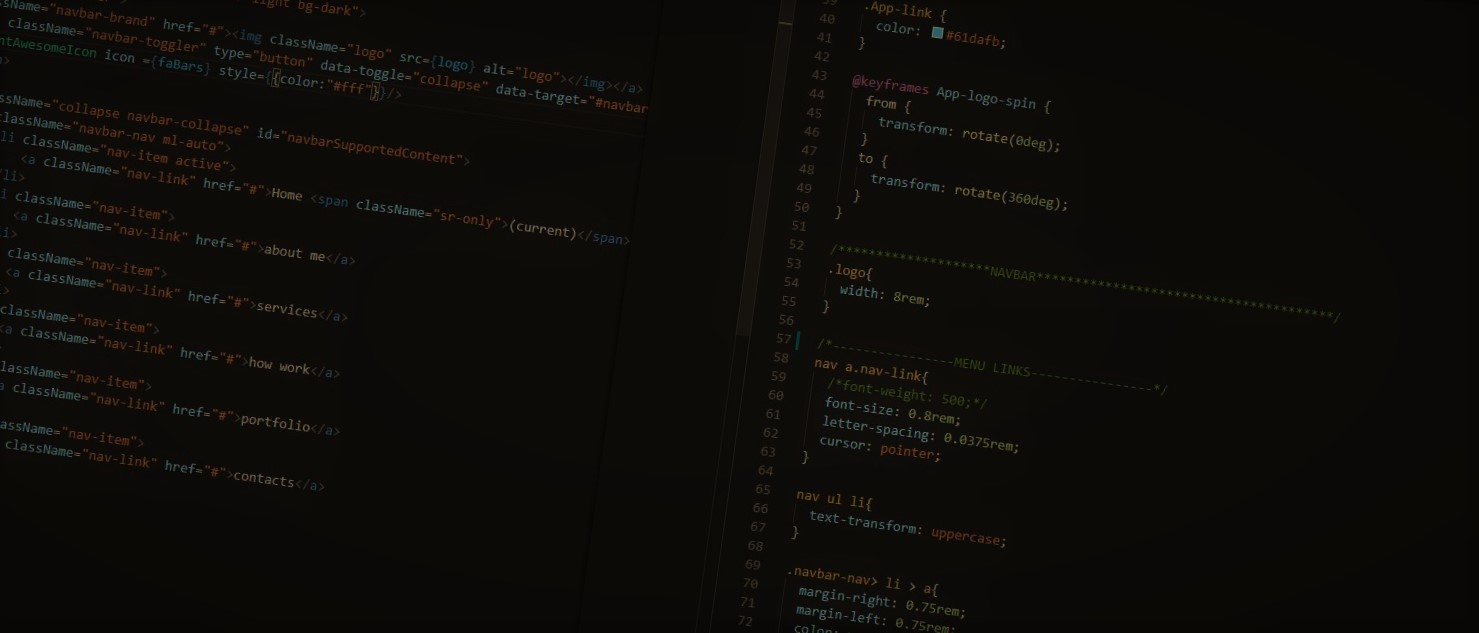
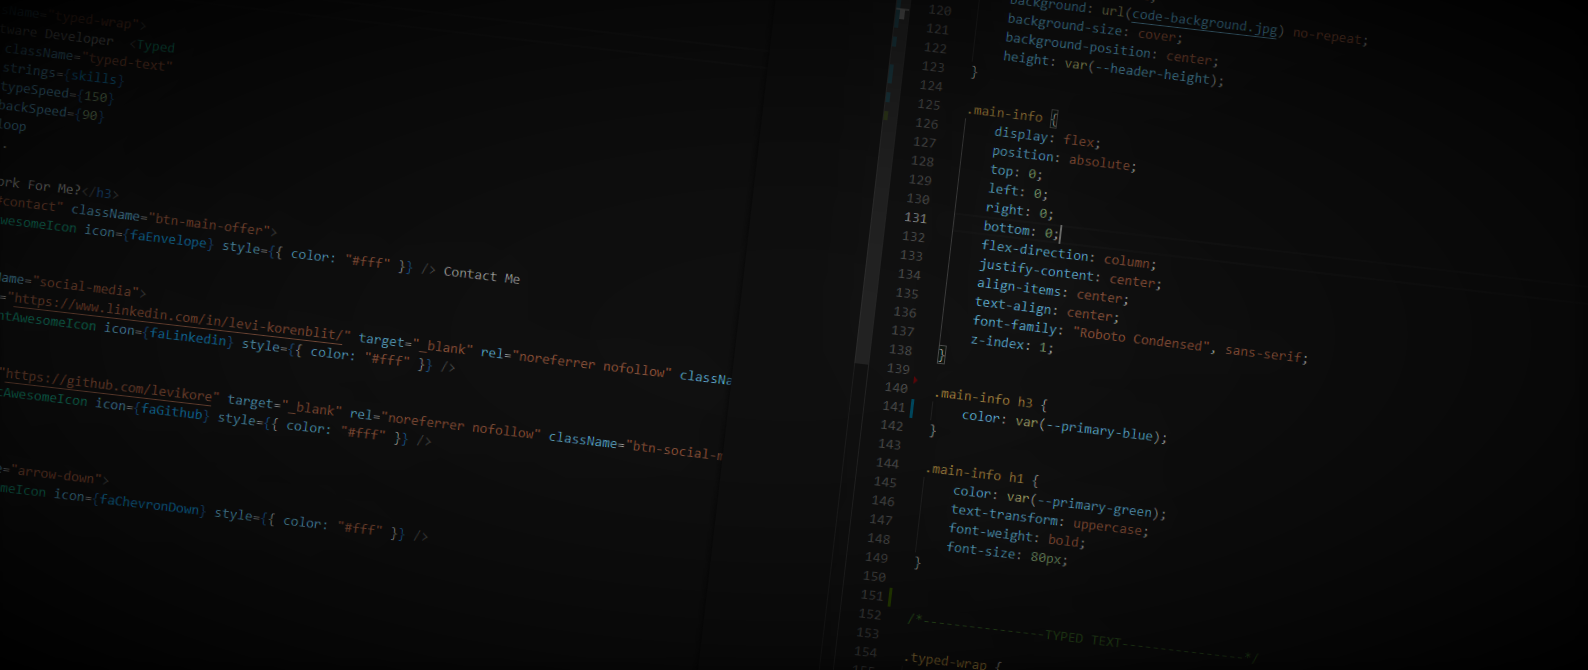
changed header style and background

diff --git a/src/components/Header.js b/src/components/Header.js
@@ -7,25 +7,25 @@ import { faEnvelope } from "@fortawesome/free-solid-svg-icons";
 import { faLinkedin } from "@fortawesome/free-brands-svg-icons";
 import { faGithub } from "@fortawesome/free-brands-svg-icons";
 
-const skills = ["Junior Software Developer", "Junior Full-Stack Developer", "Junior Web Developer"];
+const skills = ["React", "JavaScript", "NodeJS", "HTML5", "CSS3", "C#", "C++", "Python", "Git"];
 
 const Header = () => {
     return (
         <div className="header-wraper" id="section-header">
             <div className="main-info">
-                <div className="hello-text-wraper">
-                    <h3>Hi, I'm</h3>
-                    <h1>Levi Korenblit</h1>
-                </div>
+
+                <h1>Levi Korenblit</h1>
+
                 <p className="typed-wrap">
-                    Looking for a <Typed
+                    Software Developer  <Typed
                         className="typed-text"
                         strings={skills}
-                        typeSpeed={100}
-                        backSpeed={60}
+                        typeSpeed={150}
+                        backSpeed={90}
                         loop
-                    /> position
+                    /> ...
                 </p>
+                <h3>Got Work For Me?</h3>
                 <a href="#contact" className="btn-main-offer">
                     <FontAwesomeIcon icon={faEnvelope} style={{ color: "#fff" }} /> Contact Me
                 </a>
@@ -40,9 +40,9 @@ const Header = () => {
                     </a>
                 </div>
 
-                <div className="arrow-down">
+                <a href="#section-about-me" className="arrow-down">
                     <FontAwesomeIcon icon={faChevronDown} style={{ color: "#fff" }} />
-                </div>
+                </a>
             </div>
         </div>
     )

diff --git a/src/App.css b/src/App.css
@@ -4,10 +4,11 @@
     --primary-green: #56fd3c;
     --secondary-green: #06d6a0;
     --secondary-hover-green:#0ac593;
+    --background-green: #5db6ab;
     --primary-dark: rgba(255, 255, 255, 0);
     --primary-red: #ef4035;
     --primary-hover-red: #f33501;
-    --primary-blue:#3da3d5;
+    --primary-blue:#0093E9;
     --faded-blue: rgb(167, 203, 221);
     --secondary-blue:rgb(201, 251, 255);
     --header-height: 93vh;
@@ -136,11 +137,6 @@ nav ul li {
     z-index: 1;
 }
 
-.hello-text-wraper{
-    display: flex;
-    flex-direction: column;
-}
-
 .main-info h3 {
     color: var(--secondary-green);
 }
@@ -151,6 +147,7 @@ nav ul li {
     font-weight: bold;
     font-size: 80px;
 }
+
 
 /*----------------TYPED TEXT----------------*/
 
@@ -216,6 +213,7 @@ nav ul li {
     opacity: 0.8;
     position: absolute;
     bottom: 0;
+    z-index: 1;
 
     border-radius: 40%;
 	transform: scale(1);
@@ -224,7 +222,7 @@ nav ul li {
 
 @keyframes pulse {
 	0% {
-		transform: scale(0.90);	
+		transform: scale(0.75);	
 	}
 
 	70% {
@@ -232,7 +230,7 @@ nav ul li {
 	}
 
 	100% {
-		transform: scale(0.90);	
+		transform: scale(0.75);	
 	}
 }
 
@@ -360,8 +358,8 @@ and (orientation: landscape){
     font-size: 16px;
     color: rgb(53, 53, 53);
 
-    background-color: #0093E9;
-    background-image: linear-gradient(160deg, #0093E9 0%, #5db6ab 100%);
+    background-color: var(--primary-blue);
+    background-image: linear-gradient(160deg, var(--primary-blue) 0%, var(--background-green) 100%);
  
 
     border-radius: var(--card-radius);

diff --git a/src/components/Contact.js b/src/components/Contact.js
@@ -59,7 +59,7 @@ const ContactForm = () => {
 
                 </form>
 
-                <div className="text-center text-md-right">
+                <div className="text-center text-md">
                     <a className="btn btn-primary" href="#!">Send</a>
                 </div>
                 <div className="status"></div>
